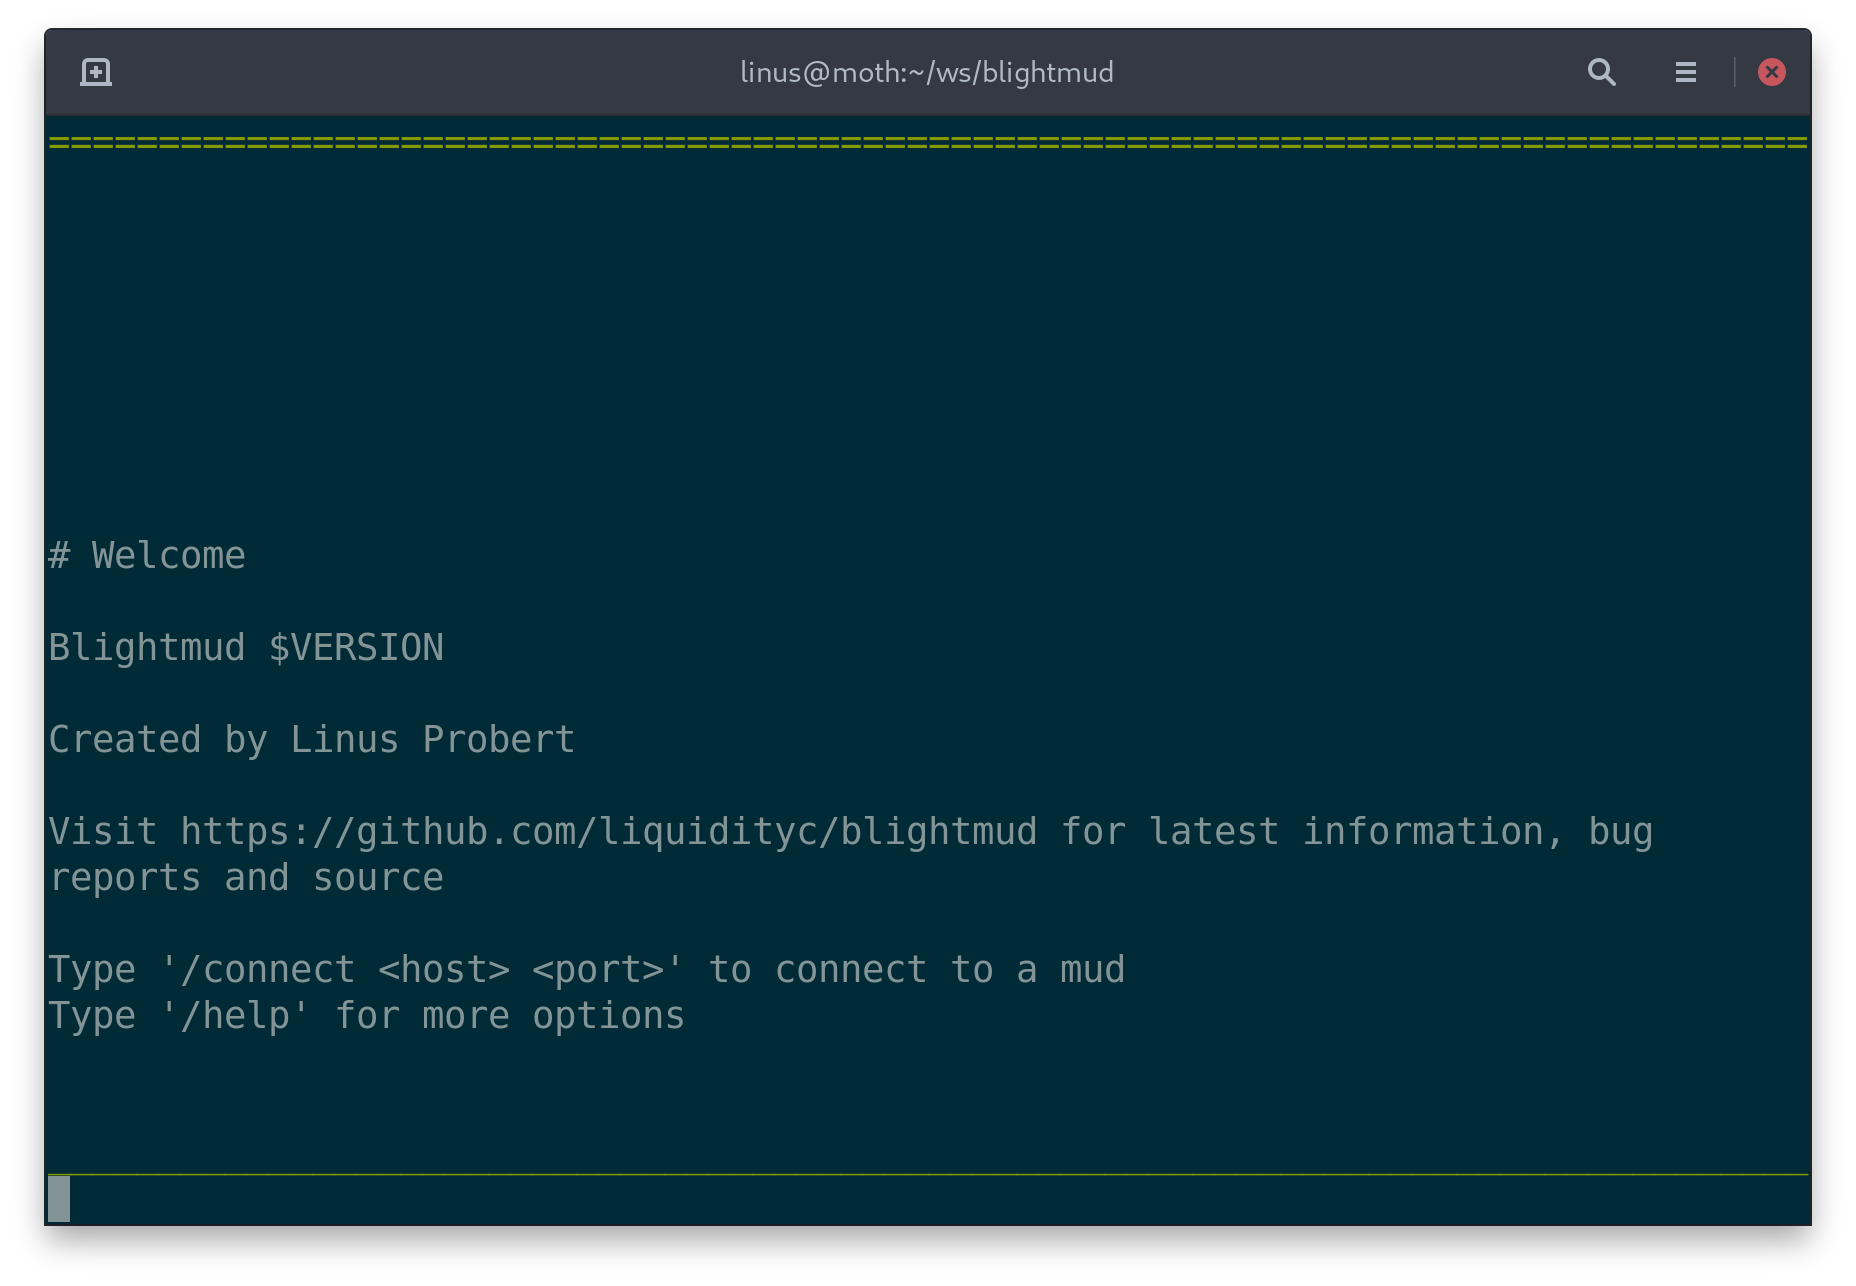
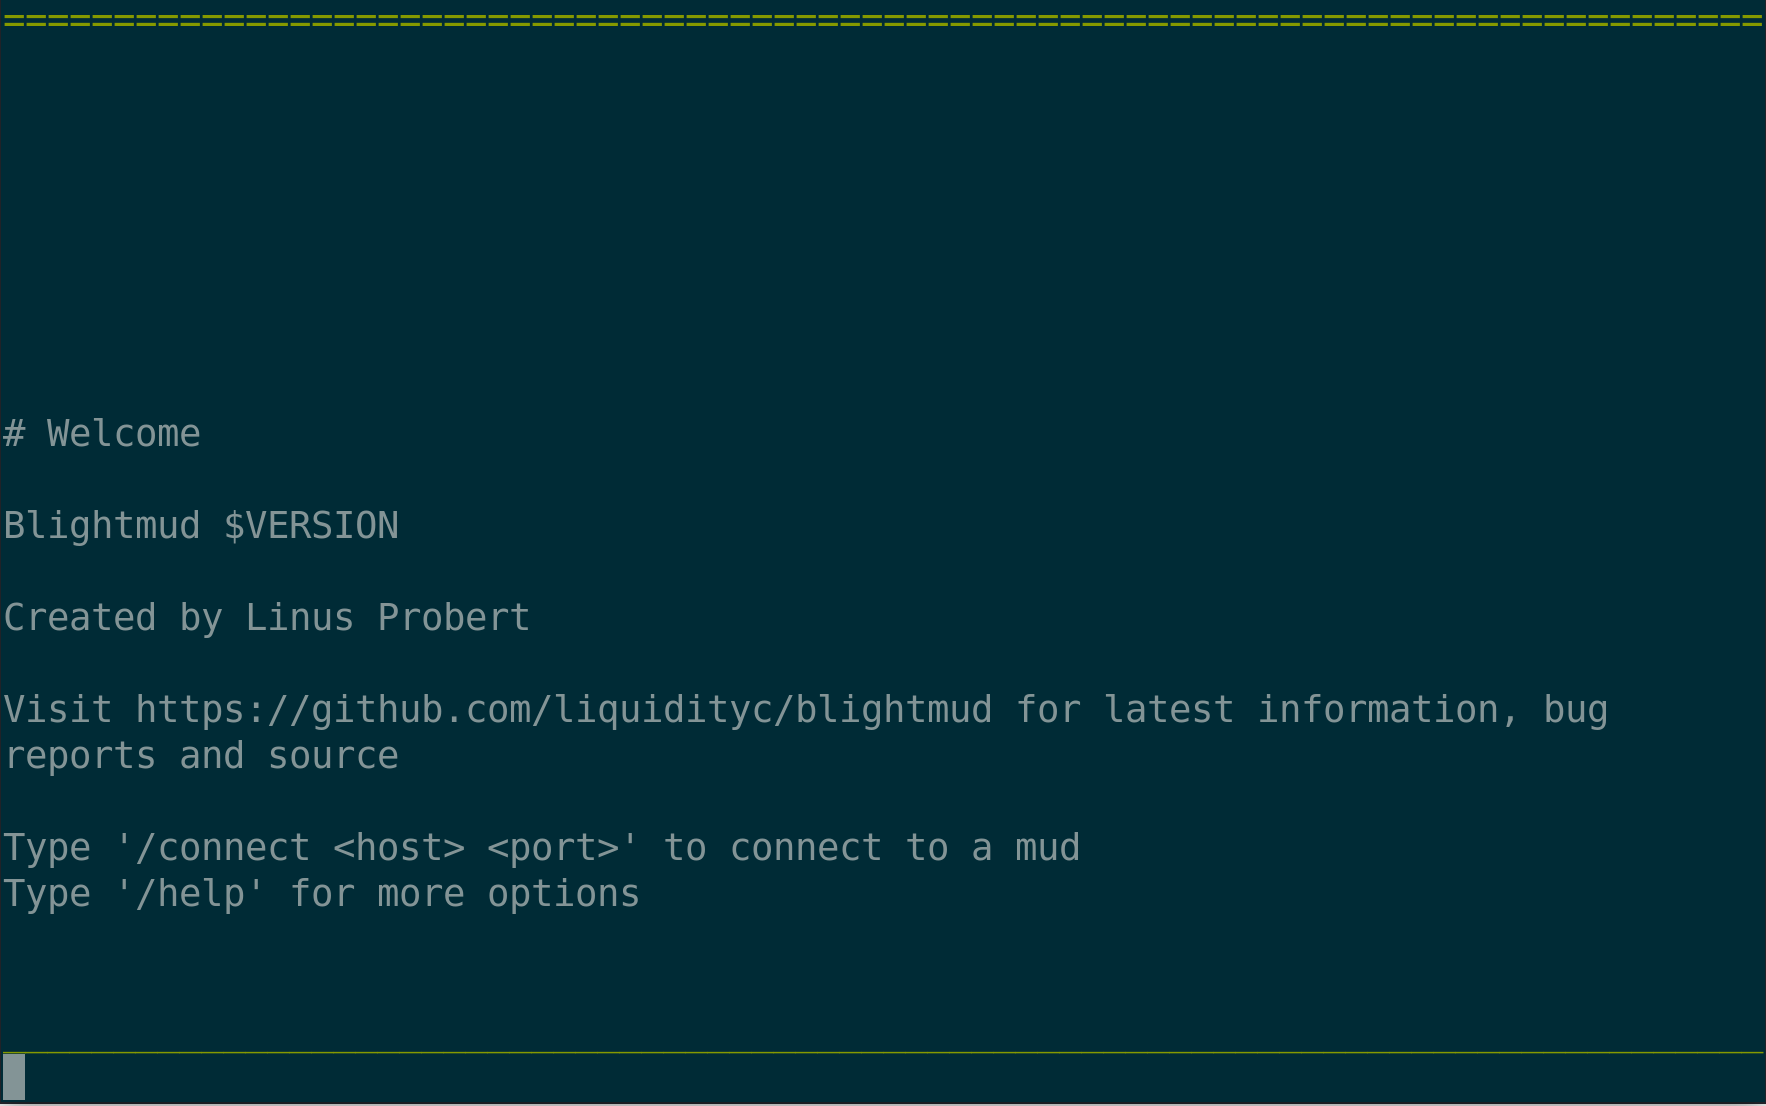
Images in readme (#6)
* Update README.md

* Update README.md

* Cropps screenshots

* Delete screenshot2.png

* Update README.md

Changed region(s): [[0.0, 0.0, 1.0, 1.0]]

diff --git a/README.md b/README.md
@@ -7,6 +7,8 @@ Blightmud has been a passion project of mine for some time. A big user of the ol
 but great tinyfugue I always wanted to create my own similar mud client. Even
 though I don't play much muds these days.
 
+![screenshot](resources/images/screenshot1.png)
+
 ## The name?
 The client is written in rust. Some navigating throught the thesaurus brought me to the word 'blight' and here we are.
 
